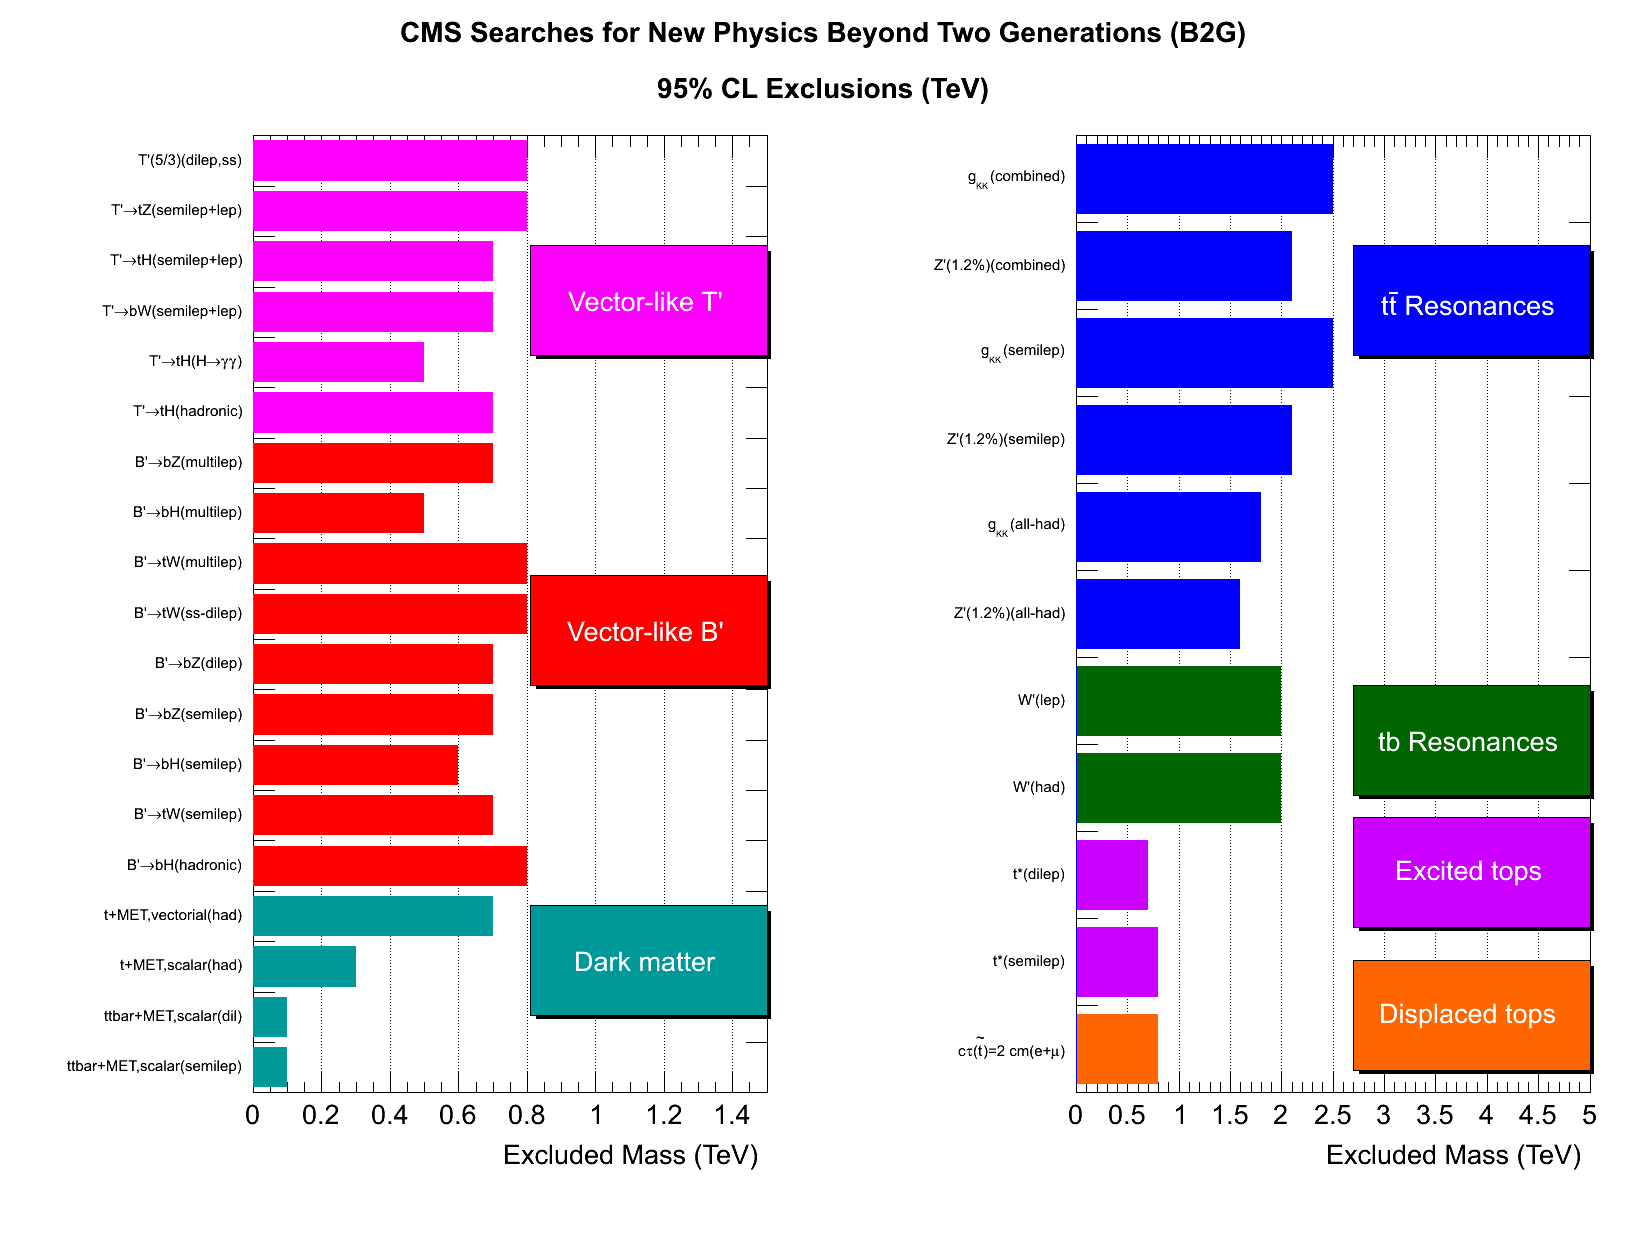
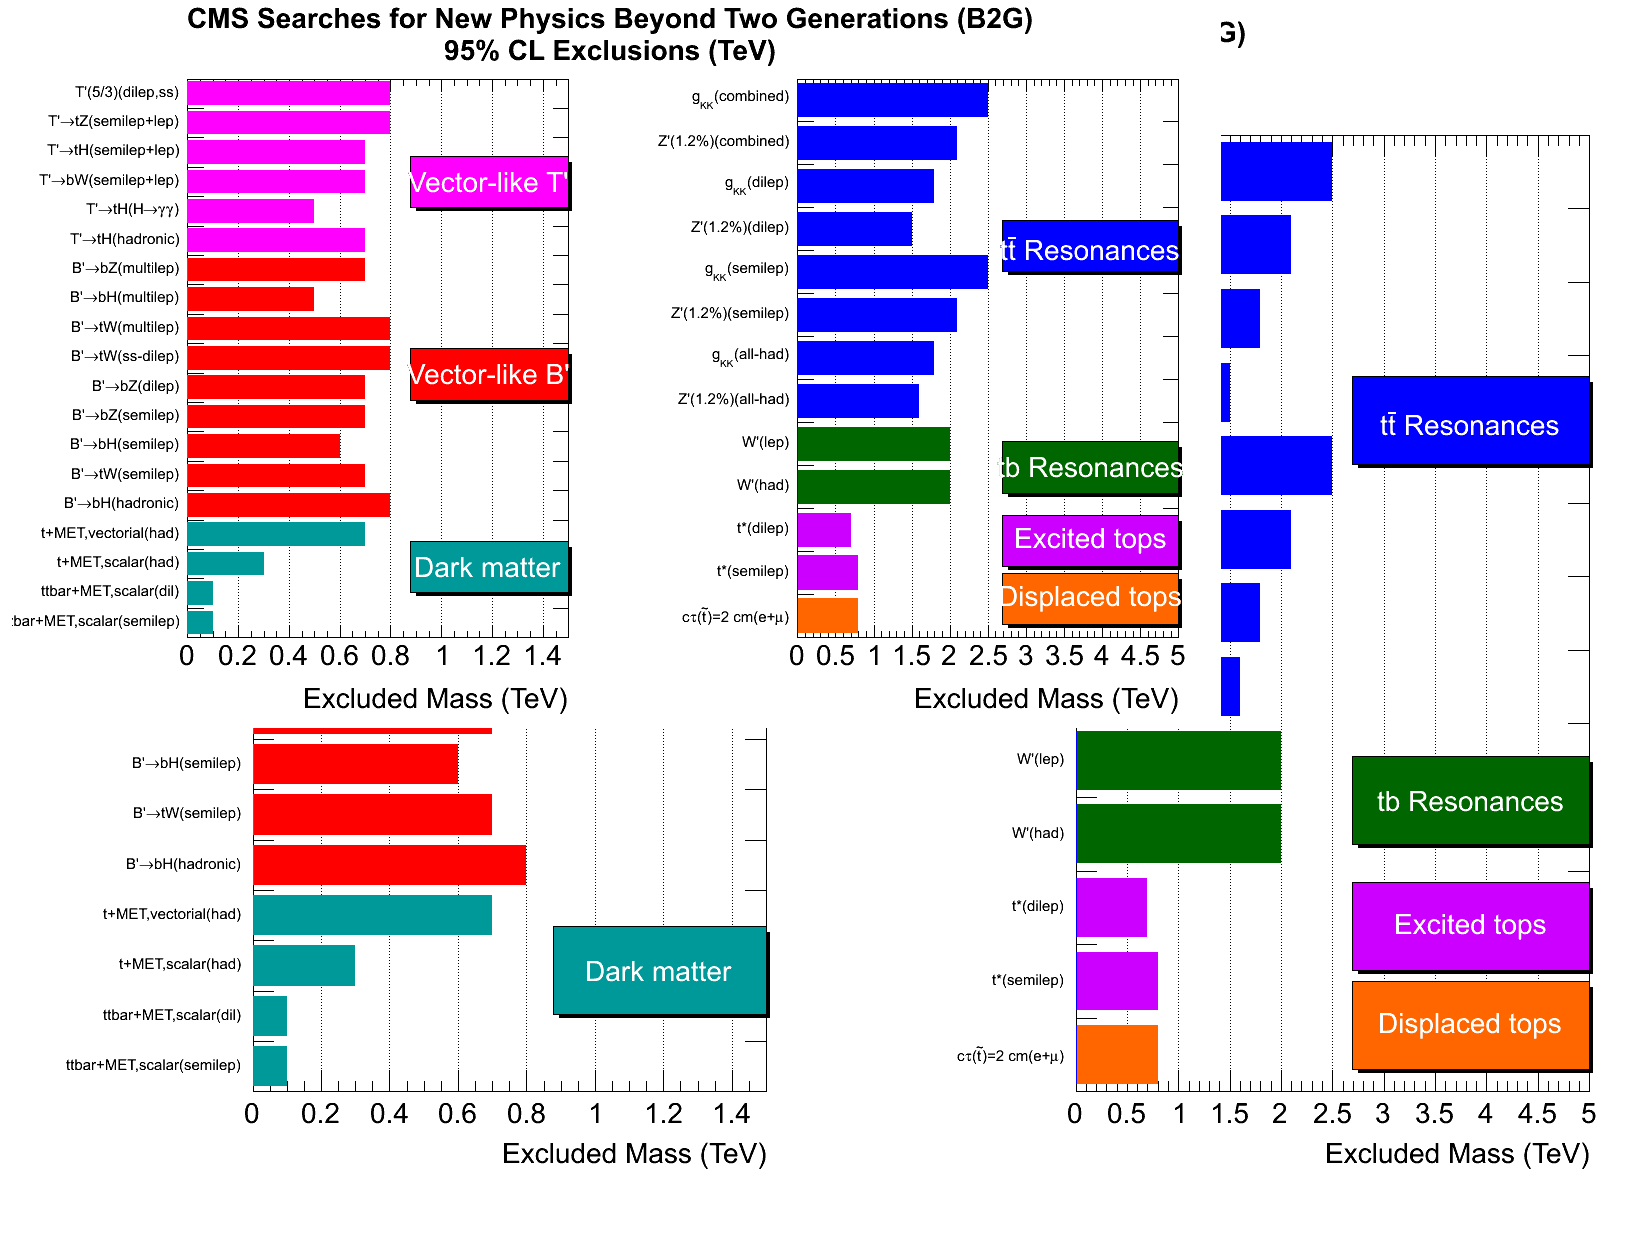
add B2G-12-007

diff --git a/fullmacro.py b/fullmacro.py
@@ -63,13 +63,13 @@ styles = {"T'":[TColor.kMagenta, "Vector-like T'",      0],
 # Location of text boxes : change this by eye!
 ##############################################################################################
 texts = {
-    "B'":[0.65, 0.5, 0.95, 0.6],
-    "T'":[0.65, 0.8, 0.95, 0.9],
-    "DM":[0.65, 0.2, 0.95, 0.3],
-    "Z'":[0.65,0.8, 0.95, 0.9],
-    "t*":[0.65, 0.28, 0.95, 0.38],
-    "W'":[0.65, 0.4, 0.95, 0.5],
-    "LLt":[0.65, 0.15, 0.95, 0.25]
+    "B'":[0.68, 0.5, 0.95, 0.58],
+    "T'":[0.68, 0.8, 0.95, 0.88],
+    "DM":[0.68, 0.2, 0.95, 0.28],
+    "Z'":[0.65,0.7, 0.95, 0.78],
+    "t*":[0.65, 0.24, 0.95, 0.32],
+    "W'":[0.65, 0.355, 0.95, 0.435],
+    "LLt":[0.65, 0.15, 0.95, 0.23]
     }
 
 
